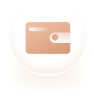
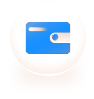
鍓嶇UI鏇存柊

Changed region(s): [[0.2766, 0.2121, 0.7447, 0.5455]]

diff --git a/mobile/bob_wap/src/App.vue b/mobile/bob_wap/src/App.vue
@@ -50,20 +50,25 @@ export default {
     // 检测 Telegram 环境并自动登录
     checkTelegramAutoLogin() {
       let that = this;
+      
+      // 判断是否为开发模式
+      const isDevelopment = process.env.NODE_ENV === 'development' || window.location.hostname === 'localhost' || window.location.hostname === '127.0.0.1';
 
-      // 调试信息收集
+      // 调试信息收集（仅开发模式）
       let debugInfo = [];
-      debugInfo.push('=== Telegram自动登录调试 ===');
-      debugInfo.push('URL: ' + window.location.href.substring(0, 50));
-      debugInfo.push('hash: ' + (window.location.hash ? window.location.hash.substring(0, 30) : '无'));
-      debugInfo.push('Telegram存在: ' + (!!window.Telegram));
-      debugInfo.push('WebApp存在: ' + (!!(window.Telegram && window.Telegram.WebApp)));
+      if (isDevelopment) {
+        debugInfo.push('=== Telegram自动登录调试 ===');
+        debugInfo.push('URL: ' + window.location.href.substring(0, 50));
+        debugInfo.push('hash: ' + (window.location.hash ? window.location.hash.substring(0, 30) : '无'));
+        debugInfo.push('Telegram存在: ' + (!!window.Telegram));
+        debugInfo.push('WebApp存在: ' + (!!(window.Telegram && window.Telegram.WebApp)));
 
-      console.log('=== [Telegram自动登录] 开始检测 ===');
-      console.log('[Telegram自动登录] window.Telegram 存在:', !!window.Telegram);
-      console.log('[Telegram自动登录] window.Telegram.WebApp 存在:', !!(window.Telegram && window.Telegram.WebApp));
-      console.log('[Telegram自动登录] URL:', window.location.href);
-      console.log('[Telegram自动登录] hash:', window.location.hash);
+        console.log('=== [Telegram自动登录] 开始检测 ===');
+        console.log('[Telegram自动登录] window.Telegram 存在:', !!window.Telegram);
+        console.log('[Telegram自动登录] window.Telegram.WebApp 存在:', !!(window.Telegram && window.Telegram.WebApp));
+        console.log('[Telegram自动登录] URL:', window.location.href);
+        console.log('[Telegram自动登录] hash:', window.location.hash);
+      }
 
       // 检测是否在 Telegram Web App 环境中
       if (window.Telegram && window.Telegram.WebApp) {
@@ -78,30 +83,36 @@ export default {
         const initDataUnsafe = window.__TELEGRAM_INIT_DATA_UNSAFE__ || webApp.initDataUnsafe;
         const currentToken = sessionStorage.getItem('token');
 
-        debugInfo.push('initData长度: ' + (initData ? initData.length : 0));
-        debugInfo.push('预保存: ' + (window.__TELEGRAM_INIT_DATA__ ? '有' : '无'));
-        debugInfo.push('当前token: ' + (currentToken ? '已有' : '无'));
-        debugInfo.push('platform: ' + (webApp.platform || '未知'));
-        debugInfo.push('user: ' + JSON.stringify((initDataUnsafe && initDataUnsafe.user) || {}));
+        if (isDevelopment) {
+          debugInfo.push('initData长度: ' + (initData ? initData.length : 0));
+          debugInfo.push('预保存: ' + (window.__TELEGRAM_INIT_DATA__ ? '有' : '无'));
+          debugInfo.push('当前token: ' + (currentToken ? '已有' : '无'));
+          debugInfo.push('platform: ' + (webApp.platform || '未知'));
+          debugInfo.push('user: ' + JSON.stringify((initDataUnsafe && initDataUnsafe.user) || {}));
 
-        console.log('[Telegram自动登录] WebApp 对象:', webApp);
-        console.log('[Telegram自动登录] initData 存在:', !!initData);
-        console.log('[Telegram自动登录] initData 长度:', initData ? initData.length : 0);
-        console.log('[Telegram自动登录] initData 内容:', initData);
-        console.log('[Telegram自动登录] initDataUnsafe:', initDataUnsafe);
-        console.log('[Telegram自动登录] 预保存数据:', window.__TELEGRAM_INIT_DATA__);
-        console.log('[Telegram自动登录] 当前 token:', currentToken);
+          console.log('[Telegram自动登录] WebApp 对象:', webApp);
+          console.log('[Telegram自动登录] initData 存在:', !!initData);
+          console.log('[Telegram自动登录] initData 长度:', initData ? initData.length : 0);
+          console.log('[Telegram自动登录] initData 内容:', initData);
+          console.log('[Telegram自动登录] initDataUnsafe:', initDataUnsafe);
+          console.log('[Telegram自动登录] 预保存数据:', window.__TELEGRAM_INIT_DATA__);
+          console.log('[Telegram自动登录] 当前 token:', currentToken);
+        }
 
         // 如果有 initData 且未登录，执行自动登录
         if (initData && !currentToken) {
-          debugInfo.push('>>> 开始调用API...');
-          console.log('[Telegram自动登录] 条件满足，准备调用后端 API...');
+          if (isDevelopment) {
+            debugInfo.push('>>> 开始调用API...');
+            console.log('[Telegram自动登录] 条件满足，准备调用后端 API...');
+          }
 
           // 后端 API 地址
           const apiBaseUrl = 'https://botapi.leyu666.lol';
           const telegramAuthUrl = apiBaseUrl + '/api/telegram/webapp-auth';
-          debugInfo.push('API URL: ' + telegramAuthUrl.substring(0, 40) + '...');
-          console.log('[Telegram自动登录] API URL:', telegramAuthUrl);
+          if (isDevelopment) {
+            debugInfo.push('API URL: ' + telegramAuthUrl.substring(0, 40) + '...');
+            console.log('[Telegram自动登录] API URL:', telegramAuthUrl);
+          }
 
           // 直接用 fetch 调用，避免 axios 配置问题
           fetch(telegramAuthUrl, {
@@ -109,12 +120,16 @@ export default {
             headers: { 'Content-Type': 'application/json' },
             body: JSON.stringify({ init_data: initData })
           }).then(response => response.json()).then(res => {
-            console.log('[Telegram自动登录] API 响应:', res);
-            debugInfo.push('API响应: ' + JSON.stringify(res));
+            if (isDevelopment) {
+              console.log('[Telegram自动登录] API 响应:', res);
+              debugInfo.push('API响应: ' + JSON.stringify(res));
+            }
 
             if (res.code === 200) {
-              console.log('[Telegram自动登录] 登录成功！');
-              debugInfo.push('登录成功！');
+              if (isDevelopment) {
+                console.log('[Telegram自动登录] 登录成功！');
+                debugInfo.push('登录成功！');
+              }
 
               // 保存 token
               sessionStorage.setItem('token', res.data.api_token);
@@ -136,37 +151,47 @@ export default {
                 that.$notify({ type: 'success', message: 'Telegram自动登录成功！' });
               }
             } else {
-              console.error('[Telegram自动登录] 登录失败:', res.code, res.message);
-              debugInfo.push('登录失败: ' + res.message);
-              // 显示调试弹窗
-              alert(debugInfo.join('\n'));
+              if (isDevelopment) {
+                console.error('[Telegram自动登录] 登录失败:', res.code, res.message);
+                debugInfo.push('登录失败: ' + res.message);
+                // 开发模式下显示调试弹窗
+                alert(debugInfo.join('\n'));
+              }
             }
           }).catch(err => {
-            console.error('[Telegram自动登录] API 调用异常:', err);
-            debugInfo.push('API异常: ' + (err.message || JSON.stringify(err)));
-            // 显示调试弹窗
-            alert(debugInfo.join('\n'));
+            if (isDevelopment) {
+              console.error('[Telegram自动登录] API 调用异常:', err);
+              debugInfo.push('API异常: ' + (err.message || JSON.stringify(err)));
+              // 开发模式下显示调试弹窗
+              alert(debugInfo.join('\n'));
+            }
           });
         } else {
-          if (!initData) {
-            debugInfo.push('跳过: initData为空');
-            console.log('[Telegram自动登录] 跳过：initData 为空');
+          if (isDevelopment) {
+            if (!initData) {
+              debugInfo.push('跳过: initData为空');
+              console.log('[Telegram自动登录] 跳过：initData 为空');
+            }
+            if (currentToken) {
+              debugInfo.push('跳过: 已登录');
+              console.log('[Telegram自动登录] 跳过：用户已登录，token 存在');
+            }
+            // 开发模式下显示调试弹窗（没有initData或已登录时）
+            alert(debugInfo.join('\n'));
           }
-          if (currentToken) {
-            debugInfo.push('跳过: 已登录');
-            console.log('[Telegram自动登录] 跳过：用户已登录，token 存在');
-          }
-          // 显示调试弹窗（没有initData或已登录时）
-          alert(debugInfo.join('\n'));
         }
       } else {
-        debugInfo.push('跳过: 非Telegram环境');
-        console.log('[Telegram自动登录] 跳过：非 Telegram 环境');
-        // 在非Telegram环境也显示调试信息
-        alert(debugInfo.join('\n'));
+        if (isDevelopment) {
+          debugInfo.push('跳过: 非Telegram环境');
+          console.log('[Telegram自动登录] 跳过：非 Telegram 环境');
+          // 开发模式下在非Telegram环境也显示调试信息
+          alert(debugInfo.join('\n'));
+        }
       }
 
-      console.log('=== [Telegram自动登录] 检测结束 ===');
+      if (isDevelopment) {
+        console.log('=== [Telegram自动登录] 检测结束 ===');
+      }
     },
     getVisitUrl() {
       let that = this;
@@ -511,8 +536,8 @@ export default {
 /* 页眉 */
 
 .pageTop {
-  background-color: #ede9e7;
-  color: rgb(0, 0, 0);
+  background-color: rgba(0, 0, 0, 0.7);
+  color: #ffffff;
   text-align: center;
   font-size: 16px;
   font-weight: 700;
@@ -526,10 +551,10 @@ export default {
 }
 
 .acts .van-tabs__line {
-  background-color: #cf886b !important;
+  background-color: #1890ff !important;
 }
 .acts .van-tab--active {
-  color: #cf886b !important;
+  color: #1890ff !important;
 }
 
 .van-nav-bar .van-icon {

diff --git a/mobile/bob_wap/src/components/mode/mine.vue b/mobile/bob_wap/src/components/mode/mine.vue
@@ -1,5 +1,5 @@
 <template>
-  <div style="background-color: #ede9e7; min-height: 100vh; box-sizing: border-box">
+  <div class="mine-container">
     <!-- title -->
     <div style="padding: 0 18px">
       <div class="mineTop">
@@ -243,6 +243,16 @@ export default {
 };
 </script>
 <style lang="scss" scoped>
+.mine-container {
+  width: 100%;
+  min-height: 100vh;
+  box-sizing: border-box;
+  background: linear-gradient(135deg, #1a1a2e 0%, #16213e 50%, #0f3460 100%);
+  background-image: url('/static/image/diy/login_bg.jpg');
+  background-size: cover;
+  background-position: center;
+  background-blend-mode: overlay;
+}
 // @import '../../../static/css/chunk-4deac3d0.11461b5f.css';
 .mineTop {
   height: 60px;
@@ -399,8 +409,7 @@ export default {
   }
 }
 .uslis {
-  background: url(/static/image/bg2.16978ccb7fd03b3f524222a8425d3728.16978ccb.png) no-repeat;
-  background-size: 100% 100%;
+  background: rgba(0, 0, 0, 0.5);
   width: 100%;
   margin-top: -20px;
   z-index: 200;
@@ -432,28 +441,27 @@ export default {
     padding: 4px 12px;
     box-sizing: border-box;
     width: 100%;
-    background: url(/static/image/list_bg.3577119be3c948988e7d77700fa0cc7d.3577119b.png) no-repeat;
-    background-size: 100% 100%;
+    background: rgba(0, 0, 0, 0.45);
     -webkit-box-shadow: 0 0.04rem 0.2rem 0 rgb(93 114 162 / 11%);
     box-shadow: 0 0.04rem 0.2rem 0 rgb(93 114 162 / 11%);
-    .hgsw {
-      display: flex;
-      align-items: center;
-      justify-content: space-between;
-      height: 40px;
-      box-sizing: border-box;
-      border-bottom: 1px solid #f5f0f0;
+      .hgsw {
+        display: flex;
+        align-items: center;
+        justify-content: space-between;
+        height: 40px;
+        box-sizing: border-box;
+        border-bottom: 1px solid rgba(24, 144, 255, 0.3);
       .firsimg {
         width: 24px;
       }
       .tit {
-        color: #4e6693;
+        color: rgba(255, 255, 255, 0.9);
         margin-left: 10px;
       }
       .tisf {
         flex: 1;
         margin: 0 12px;
-        color: #a2aec8;
+        color: rgba(255, 255, 255, 0.7);
         text-align: right;
       }
       .rigiong {

diff --git a/mobile/bob_wap/src/components/mode/activity.vue b/mobile/bob_wap/src/components/mode/activity.vue
@@ -1,5 +1,5 @@
 <template>
-  <div class="acts" style="background: #f1f1f1" v-if="activitytypeList.length > 0">
+  <div class="acts" v-if="activitytypeList.length > 0">
     <div class="pageTop">优惠活动</div>
     <van-tabs v-model="actType" class="topsa" @click="activitylist">
       <van-tab title="全部" :name="''"> </van-tab>
@@ -77,6 +77,15 @@ export default {
 </script>
 <style lang="scss" scoped>
 // @import '../../../static/css/dashboard-activity.b2be1233.css';
+.acts {
+  width: 100%;
+  min-height: 100vh;
+  background: linear-gradient(135deg, #1a1a2e 0%, #16213e 50%, #0f3460 100%);
+  background-image: url('/static/image/diy/login_bg.jpg');
+  background-size: cover;
+  background-position: center;
+  background-blend-mode: overlay;
+}
 .topsa {
   position: fixed;
   top: 40px;

diff --git a/mobile/bob_wap/src/components/mode/zhanzhu.vue b/mobile/bob_wap/src/components/mode/zhanzhu.vue
@@ -1,5 +1,5 @@
 <template>
-  <div class="acts" style="background-color: #ede9e7; min-height: 100vh">
+  <div class="acts">
     <div class="pageTop">赞助</div>
     <div style="height: 30px"></div>
     <div class="lis" @click="$parent.goNav('/zhanzhuye?type=1')">
@@ -52,6 +52,15 @@ export default {
 };
 </script>
 <style lang="scss" scoped>
+.acts {
+  width: 100%;
+  min-height: 100vh;
+  background: linear-gradient(135deg, #1a1a2e 0%, #16213e 50%, #0f3460 100%);
+  background-image: url('/static/image/diy/login_bg.jpg');
+  background-size: cover;
+  background-position: center;
+  background-blend-mode: overlay;
+}
 .lis {
   display: flex;
   width: calc(100% - 40px);

diff --git a/mobile/bob_wap/src/components/libs/Foot.vue b/mobile/bob_wap/src/components/libs/Foot.vue
@@ -1,5 +1,5 @@
 <template>
-  <van-tabbar v-model="type" @change="onChange" active-color="#cf866b" inactive-color="#000" style="border-top: 1px solid #d5d8e0; box-sizing: border-box; background-color: rgb(243, 246, 255); z-index: 200">
+  <van-tabbar v-model="type" @change="onChange" active-color="#1890ff" inactive-color="#cdcdcd" style="border-top: 1px solid #d5d8e0; box-sizing: border-box; background-color: rgb(243, 246, 255); z-index: 200">
     <van-tabbar-item>
       <span>首页</span>
       <template #icon="props">

diff --git a/mobile/bob_wap/src/components/mode/index.vue b/mobile/bob_wap/src/components/mode/index.vue
@@ -491,6 +491,13 @@ export default {
 
 .page-wrapper {
   padding-bottom: 20px;
+  width: 100%;
+  min-height: 100vh;
+  background: linear-gradient(135deg, #1a1a2e 0%, #16213e 50%, #0f3460 100%);
+  background-image: url('/static/image/diy/login_bg.jpg');
+  background-size: cover;
+  background-position: center;
+  background-blend-mode: overlay;
 }
 
 .login-btn {
